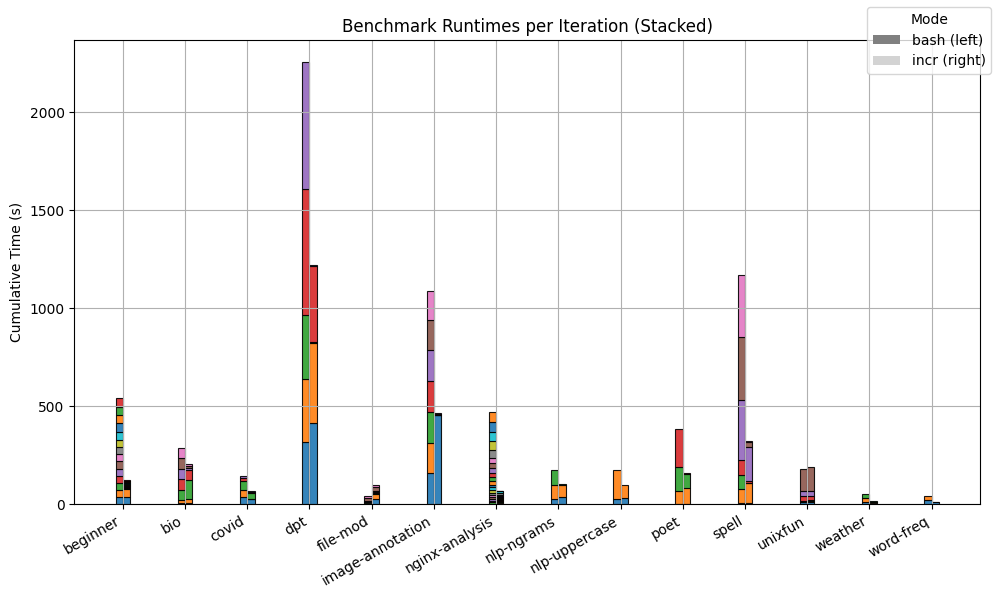
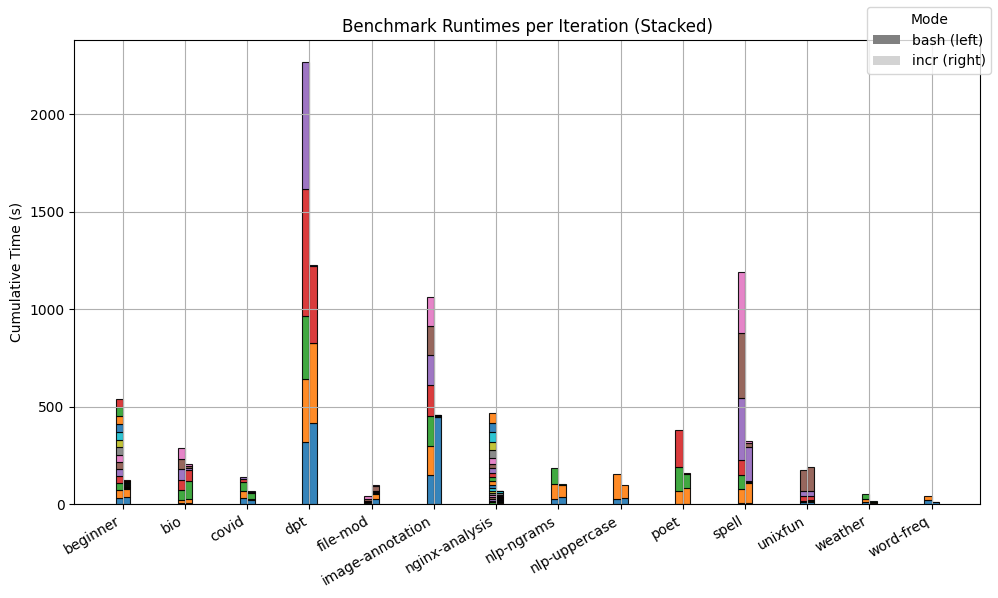
data

diff --git a/evaluation/analysis/plot.py b/evaluation/analysis/plot.py
@@ -28,7 +28,7 @@ width = 0.35  # Bar width
 all_colors = matplotlib.colormaps.get_cmap("tab10")
 
 for i, benchmark in enumerate(BENCHMARKS):
-    data = pd.read_csv(f"../default_results/default_2/{benchmark}-time.csv")
+    data = pd.read_csv(f"../default_results/default_3/{benchmark}-time.csv")
 
     # Get per-iteration times
     bash_times = data[data["mode"] == "bash"]["time_sec"].values
@@ -81,7 +81,7 @@ axes.set_title("Benchmark Runtimes per Iteration (Stacked)")
 # Iteration colors
 # get the max number of iterations across all benchmarks
 num_iters = max(
-    pd.read_csv(f"../default_results/default_2/{benchmark}-time.csv")["mode"].value_counts().max()
+    pd.read_csv(f"../default_results/default_3/{benchmark}-time.csv")["mode"].value_counts().max()
     for benchmark in BENCHMARKS
 )
 iter_patches = [
